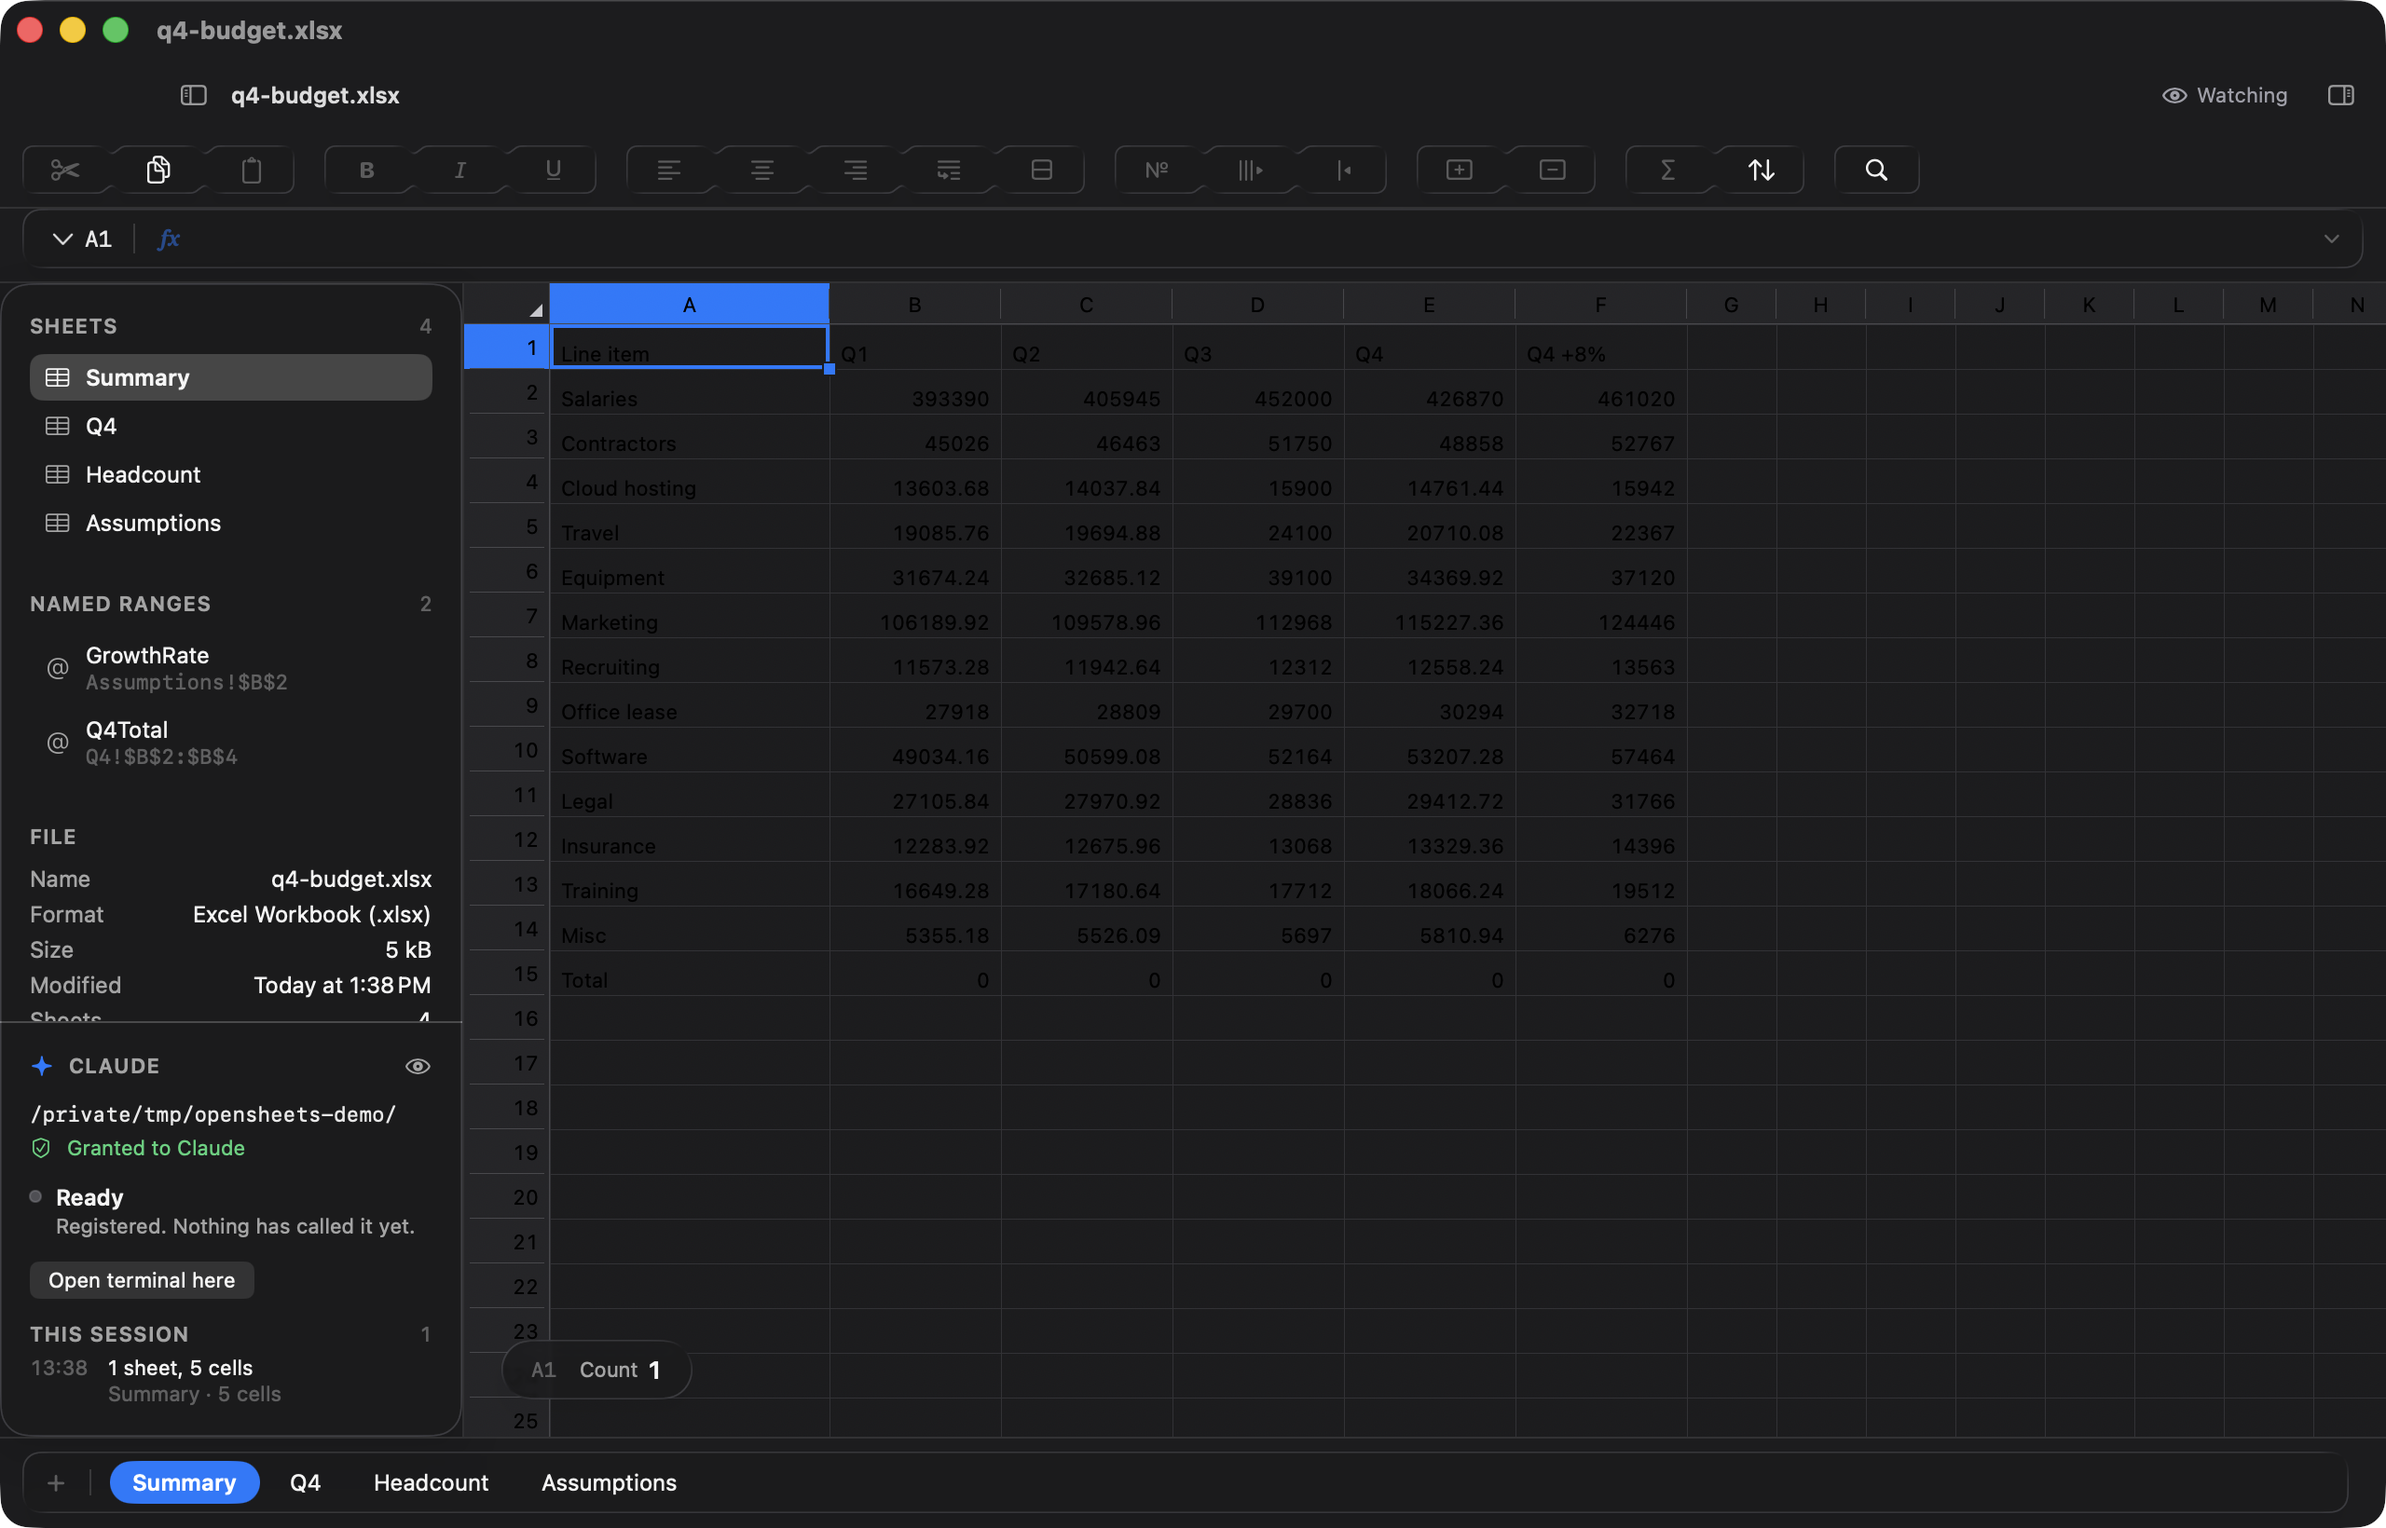
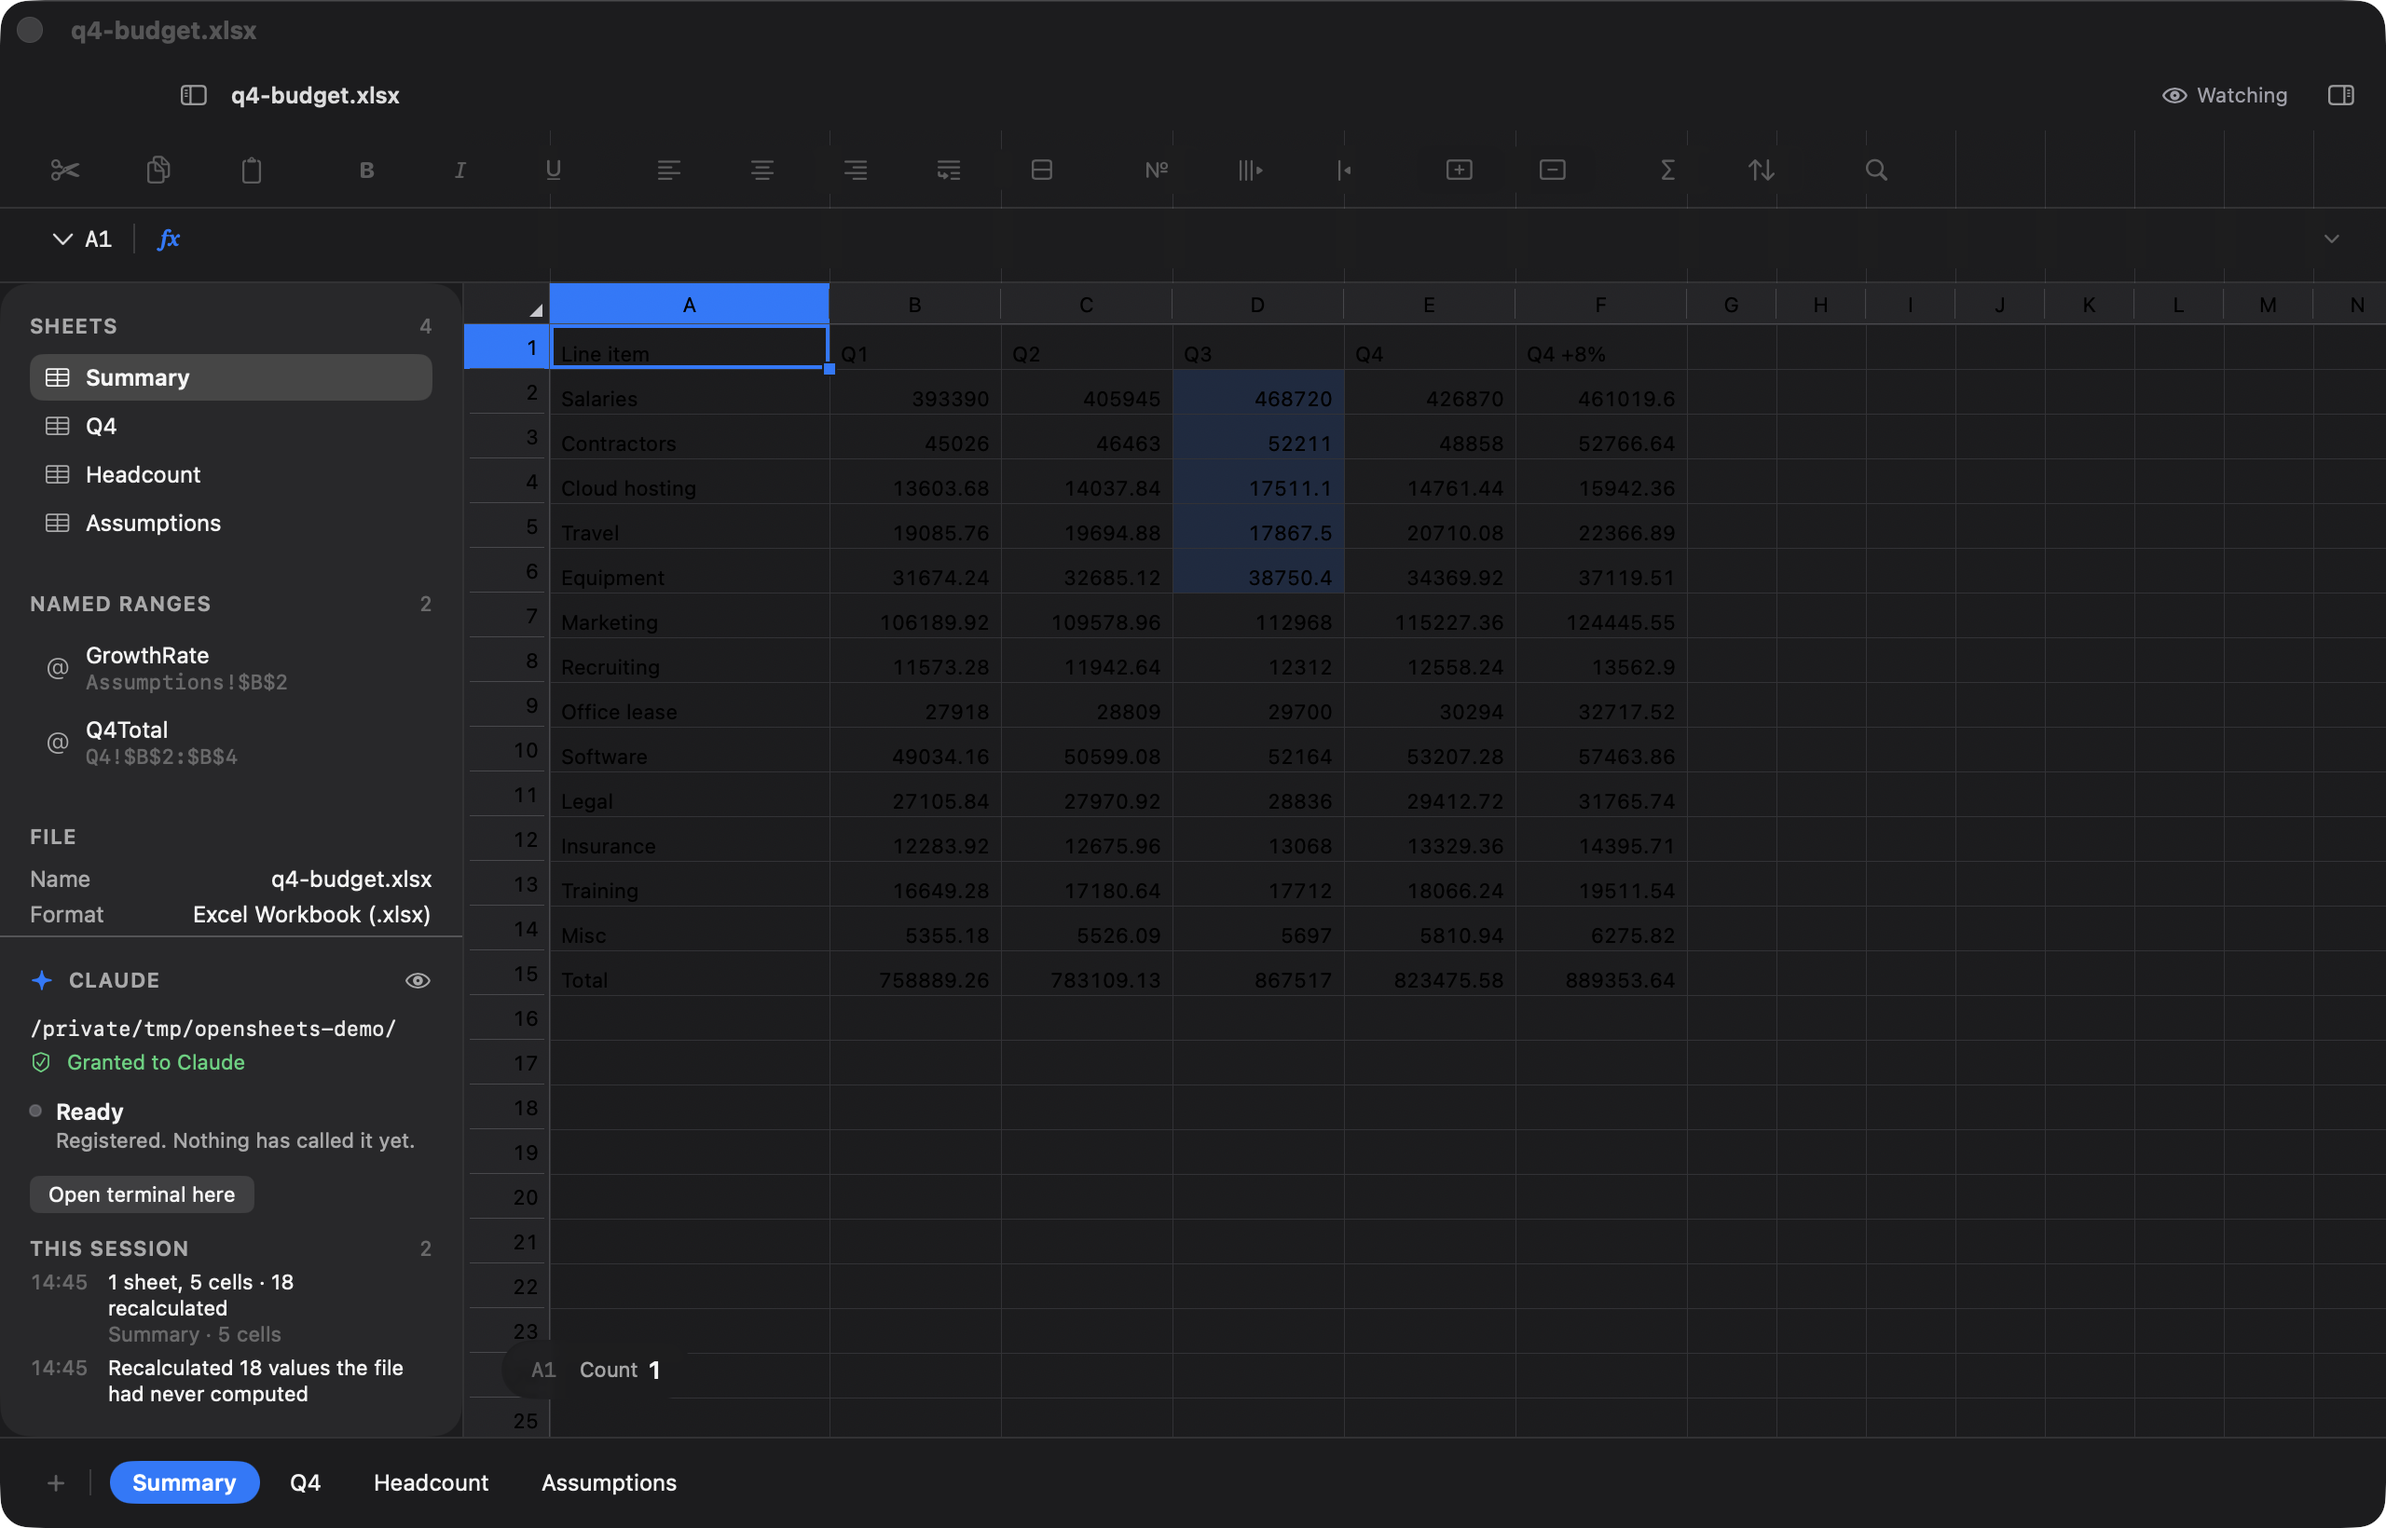
A8b: recalc on open, chrome bleed, GridKit header fix, flash fix
Recalculate on open when the file gives reason to distrust its cache:
fullCalcOnLoad set, or formulas present with neither calcChain nor
calcPr. Both branches earn their place — openpyxl 3.1.5 writes calcPr
with fullCalcOnLoad and no calcChain; older openpyxl writes neither;
LibreOffice writes calcPr with real values, and requiring BOTH absent is
what stops us overwriting its correct numbers with ours. Ceiling 50,000
formula cells, measured (716ms at 50k in debug), with an honest session
message above it. Runs detached so first paint is unaffected, takes no
undo entry, and leaves hasUnsavedEdits false.

GridKit: headers, frozen panes, divider and in-cell editor are now plain
subviews of the host. All four were displaced by the same defect, so
fixing only the headers would have broken the editor once A8's
workaround was removed. Both workaround files deleted. The new test puts
the grid in a real NSWindow and asserts header position against the
cells they label — verified to catch the defect by restoring
addFloatingSubview.

The change-flash never worked at all: GridHostView never copied
flashController.state into the render model, so guard model.flash
.isActive failed on every draw. The display link ran and the right rects
were invalidated, but nothing was ever tinted.

Known, unfixed: one launch opens five document windows for one file.

diff --git a/Packages/OpenSheetsCore/Sources/DocumentCore/OpenRecalculation.swift b/Packages/OpenSheetsCore/Sources/DocumentCore/OpenRecalculation.swift
@@ -36,12 +36,14 @@ import SheetModel
 ///
 /// # The ceiling
 ///
-/// ``formulaCeiling`` formulas. Above it the cache is left exactly as it is, and the session feed
-/// says so, because a background pass that takes ten seconds on a workbook the user is already
-/// scrolling is a worse trade than a stale total they have been told about. The number comes from
-/// the recalc budget in `docs/perf/budgets.json` — 10,000 dependent cells in 0.2 s — so 50,000
-/// formulas is about a second of one background core, which is a fair price for correct totals and
-/// too much to pay silently.
+/// **50,000 formula cells** (``formulaCeiling``). Above it the cache is left exactly as it is and
+/// the session feed says so, because a pass that runs for ten seconds on a workbook the user is
+/// already scrolling is a worse trade than a stale total they have been told about.
+///
+/// The number is measured, not guessed: `FormulaEngine.recalculateAll` over a debug build takes
+/// 15 ms for 1,000 formulas, 130 ms for 10,000 and 716 ms for 50,000 — so the ceiling is about a
+/// second of one background core at its worst, and a release build is faster still. It matches the
+/// recalc budget in `docs/perf/budgets.json` (10,000 dependent cells in 0.2 s).
 public enum OpenRecalculation {
     /// The most formulas we will recalculate on open. See the type's note.
     public static let formulaCeiling = 50_000
@@ -71,7 +73,7 @@ public enum OpenRecalculation {
     /// open regardless, and its dependency graph already knows every formula cell — walking a
     /// million cells a second time to count them would be the most expensive part of this.
     public static func decide(formulaCount: Int, meta: WorkbookMeta) -> Decision {
-        guard formulaCount > 0, let _ = reason(for: meta) else { return .trustCache }
+        guard formulaCount > 0, reason(for: meta) != nil else { return .trustCache }
         guard formulaCount <= formulaCeiling else { return .tooLarge(formulaCount: formulaCount) }
         return .recalculate(formulaCount: formulaCount)
     }

diff --git a/App/DocumentWindow.swift b/App/DocumentWindow.swift
@@ -23,9 +23,9 @@ import SwiftUI
 /// ┌───────────────────────────────────────────────────────────┐
 /// │ titlebar        name · sync chip            sidebar toggle │  anchored, traffic-light inset
 /// ├───────────────────────────────────────────────────────────┤
-/// │ toolbar                                     ░ grid runs ░ │  anchored, full window width
-/// ├───────────────────────────────────────────── ░ under ░░░ ─┤
-/// │ formula bar                                 ░ both ░░░░░░ │  anchored, full window width
+/// │ toolbar                                                    │  anchored — the grid runs under it
+/// ├───────────────────────────────────────────────────────────┤
+/// │ formula bar                                                │  anchored — and under this too
 /// ├──────────────┬────────────────────────────────────────────┤
 /// │ sidebar      │ grid              ·stats pill  ·sync pill   │  siblings; only the two pills float
 /// ├──────────────┴────────────────────────────────────────────┤

diff --git a/Packages/OpenSheetsCore/Sources/DocumentCore/DocumentModel.swift b/Packages/OpenSheetsCore/Sources/DocumentCore/DocumentModel.swift
@@ -960,7 +960,9 @@ public final class DocumentModel {
             let workbook = workbook
             let generation = workbookGeneration
             Task { [weak self] in
-                let pass = await Task.detached(priority: .utility) {
+                // `.userInitiated`, not `.utility`: until this lands the user is looking at the
+                // producer's placeholder numbers, so it is not background maintenance.
+                let pass = await Task.detached(priority: .userInitiated) {
                     OpenRecalculation.run(engine: engine, on: workbook)
                 }.value
                 guard let self, workbookGeneration == generation else { return }
@@ -975,8 +977,17 @@ public final class DocumentModel {
         result.apply(to: &workbook)
         refreshSelectionDerived()
         guard outcome.changedAnything else { return }
+
         // Said in the session feed rather than in a banner: it is a fact about the file worth
         // being able to find later, not a decision the user has to make now.
+        //
+        // When the pass followed a refresh, it is folded into *that* entry instead of adding a
+        // second one. The agent's edit and the recalculation it made necessary are one event in
+        // the file's history, and two lines per agent edit is how a feed stops being read.
+        if let first = feed.first, first.id.hasPrefix("refresh-") {
+            feed[0].summary += " · \(outcome.correctedCount) recalculated"
+            return
+        }
         note(summary: OpenRecalculation.summary(outcome), cellCount: outcome.correctedCount)
     }
 

diff --git a/Packages/OpenSheetsCore/Tests/DocumentCoreTests/CoreLoopTests.swift b/Packages/OpenSheetsCore/Tests/DocumentCoreTests/CoreLoopTests.swift
@@ -266,9 +266,14 @@ final class Harness {
         )
     }
 
+    /// `autoRefresh: nil` leaves the flag alone.
+    ///
+    /// It is a `UserDefaults` key, which is **process-wide**: a suite that sets it while another
+    /// suite's document is waiting to go `STALE` turns that test into a flake that reads like a
+    /// watcher bug. Tests that do not care about the watcher pass `nil` and touch nothing.
     init(
         name: String = "budget.xlsx",
-        autoRefresh: Bool = true,
+        autoRefresh: Bool? = true,
         seed: Double = 1,
         store: SheetStore? = nil,
         workbook seeded: Workbook? = nil
@@ -283,7 +288,7 @@ final class Harness {
         if let sheet = workbook.sheets.first { tracker.noteSheetReplaced(sheet) }
         try XLSXWriter.data(for: workbook, edits: tracker).write(to: url)
 
-        UserDefaults.standard.set(autoRefresh, forKey: "OSFlagAutoRefresh")
+        if let autoRefresh { UserDefaults.standard.set(autoRefresh, forKey: "OSFlagAutoRefresh") }
         app = AppModel(store: try store ?? Harness.makeStore())
         model = try await app.openDocument(at: url)
     }

diff --git a/Packages/OpenSheetsCore/Tests/DocumentCoreTests/RecalculateOnOpenTests.swift b/Packages/OpenSheetsCore/Tests/DocumentCoreTests/RecalculateOnOpenTests.swift
@@ -150,7 +150,9 @@ struct RecalculateOnOpenTests {
     // MARK: - End to end, through the document
 
     @Test func openingTheDocumentPutsTheTotalsRightWithoutDirtyingIt() async throws {
-        let harness = try await Harness(name: "openpyxl.xlsx", workbook: try Self.uncalculated())
+        let harness = try await Harness(
+            name: "openpyxl.xlsx", autoRefresh: nil, workbook: try Self.uncalculated()
+        )
         defer { harness.close() }
 
         // First paint shows the file's own cache; the pass is off the critical path.
@@ -183,7 +185,7 @@ struct RecalculateOnOpenTests {
             .formula("A3", "SUM(A1:A2)", cached: .number(99))
             .calculationMode(.manual)
             .build()
-        let harness = try await Harness(name: "calculated.xlsx", workbook: workbook)
+        let harness = try await Harness(name: "calculated.xlsx", autoRefresh: nil, workbook: workbook)
         defer { harness.close() }
 
         try await Task.sleep(for: .milliseconds(250))

diff --git a/Packages/OpenSheetsCore/Sources/GridKit/GridHostView.swift b/Packages/OpenSheetsCore/Sources/GridKit/GridHostView.swift
@@ -256,8 +256,9 @@ public final class GridHostView: NSView {
             bottom: reserved.bottom,
             right: reserved.right
         )
-        // Cancels only the grid's *own* reservation, so the scrollers hug the body: they start
-        // below the shell's chrome rather than running up behind it.
+        // Cancels the grid's *own* reservation and nothing else: the scrollers run the full length
+        // of the grid's edges, as they did before, but the shell's reservation still stands — so
+        // they stop below the chrome and above the floating pills instead of running behind them.
         scrollView.scrollerInsets = NSEdgeInsets(top: -headerHeight, left: -headerWidth, bottom: 0, right: 0)
 
         cornerView.isHidden = !model.options.showsHeaders
